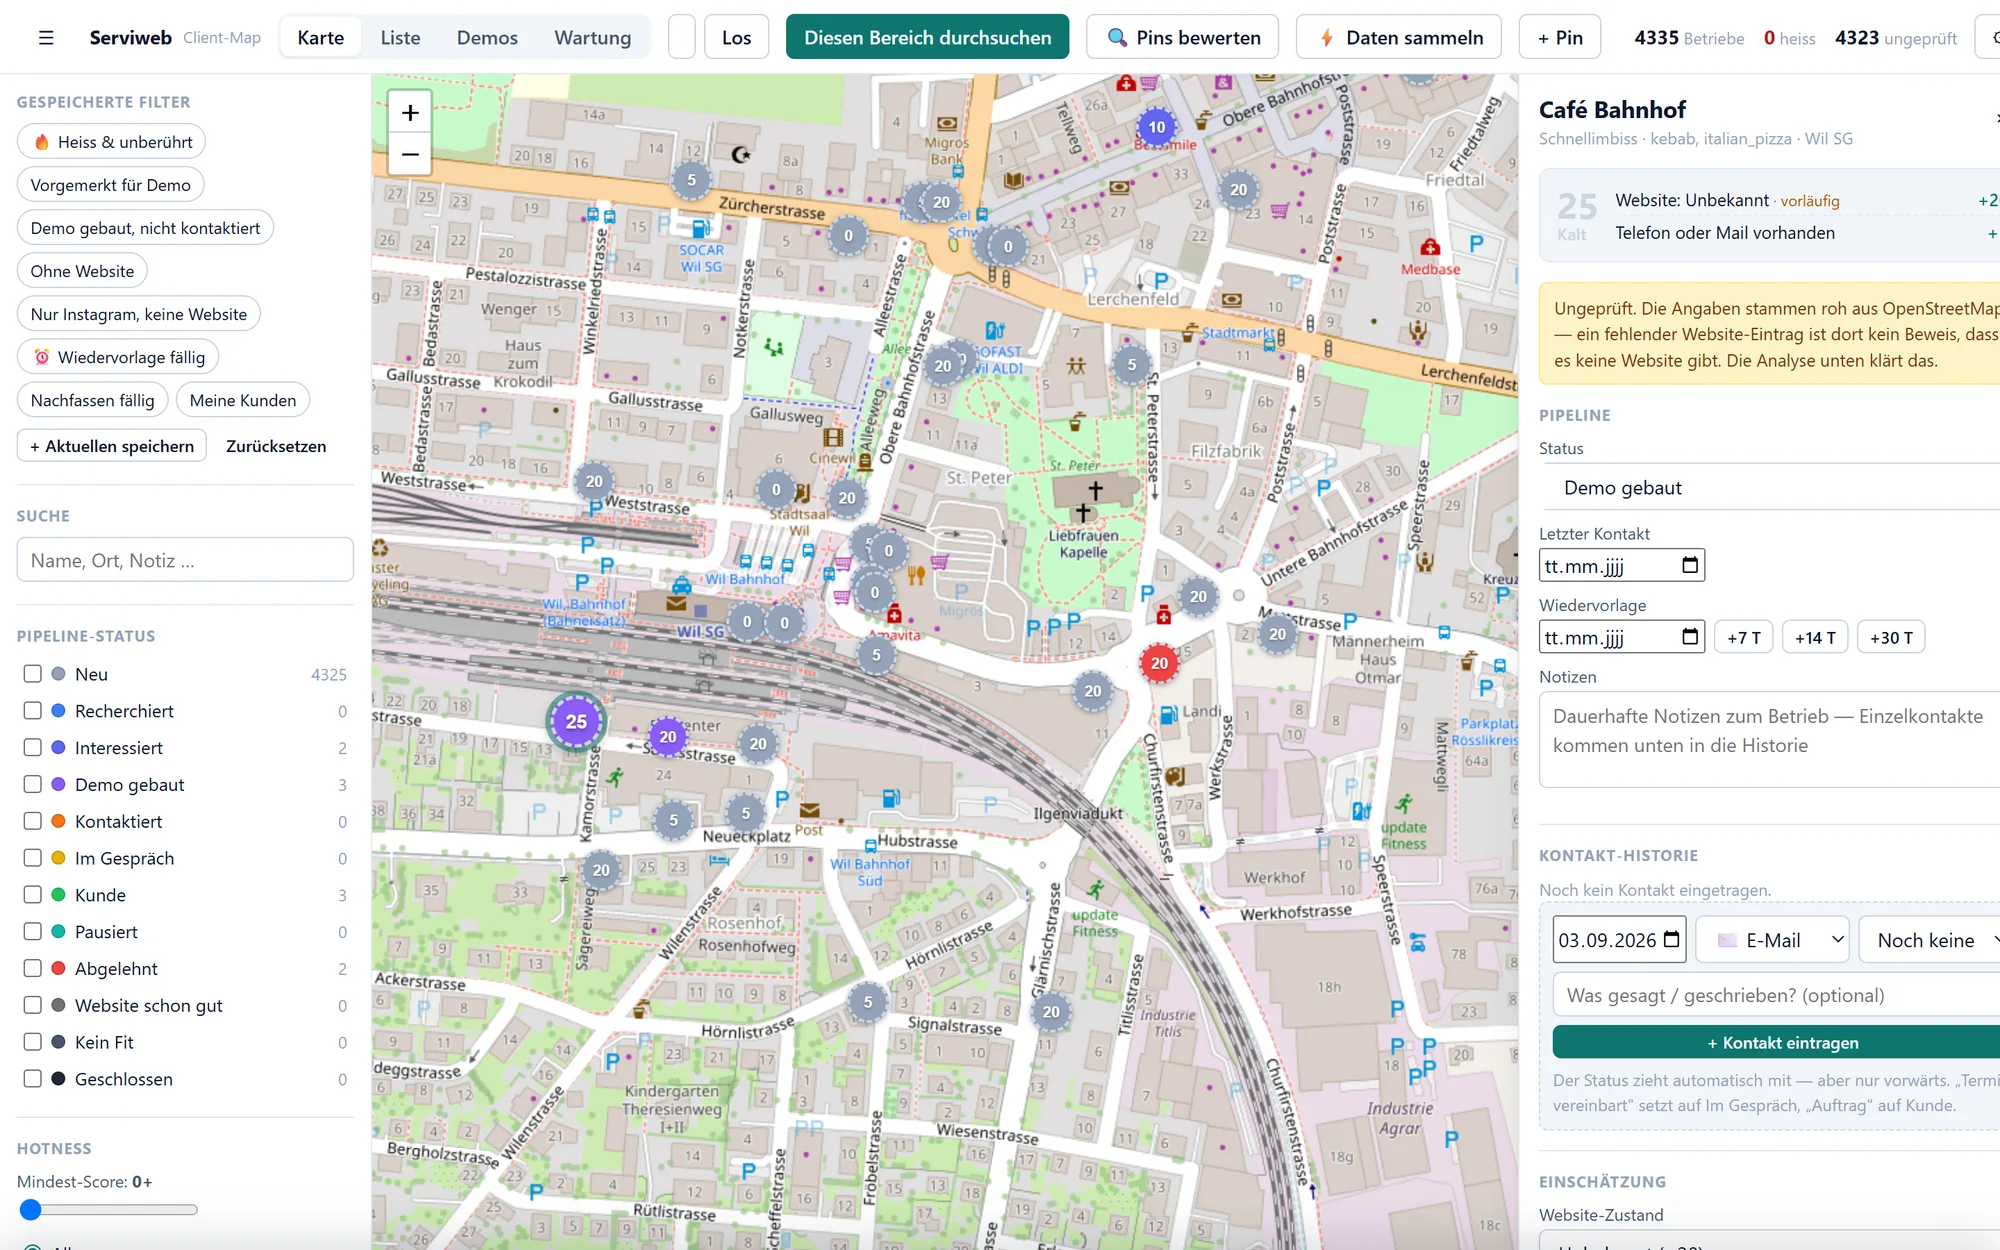
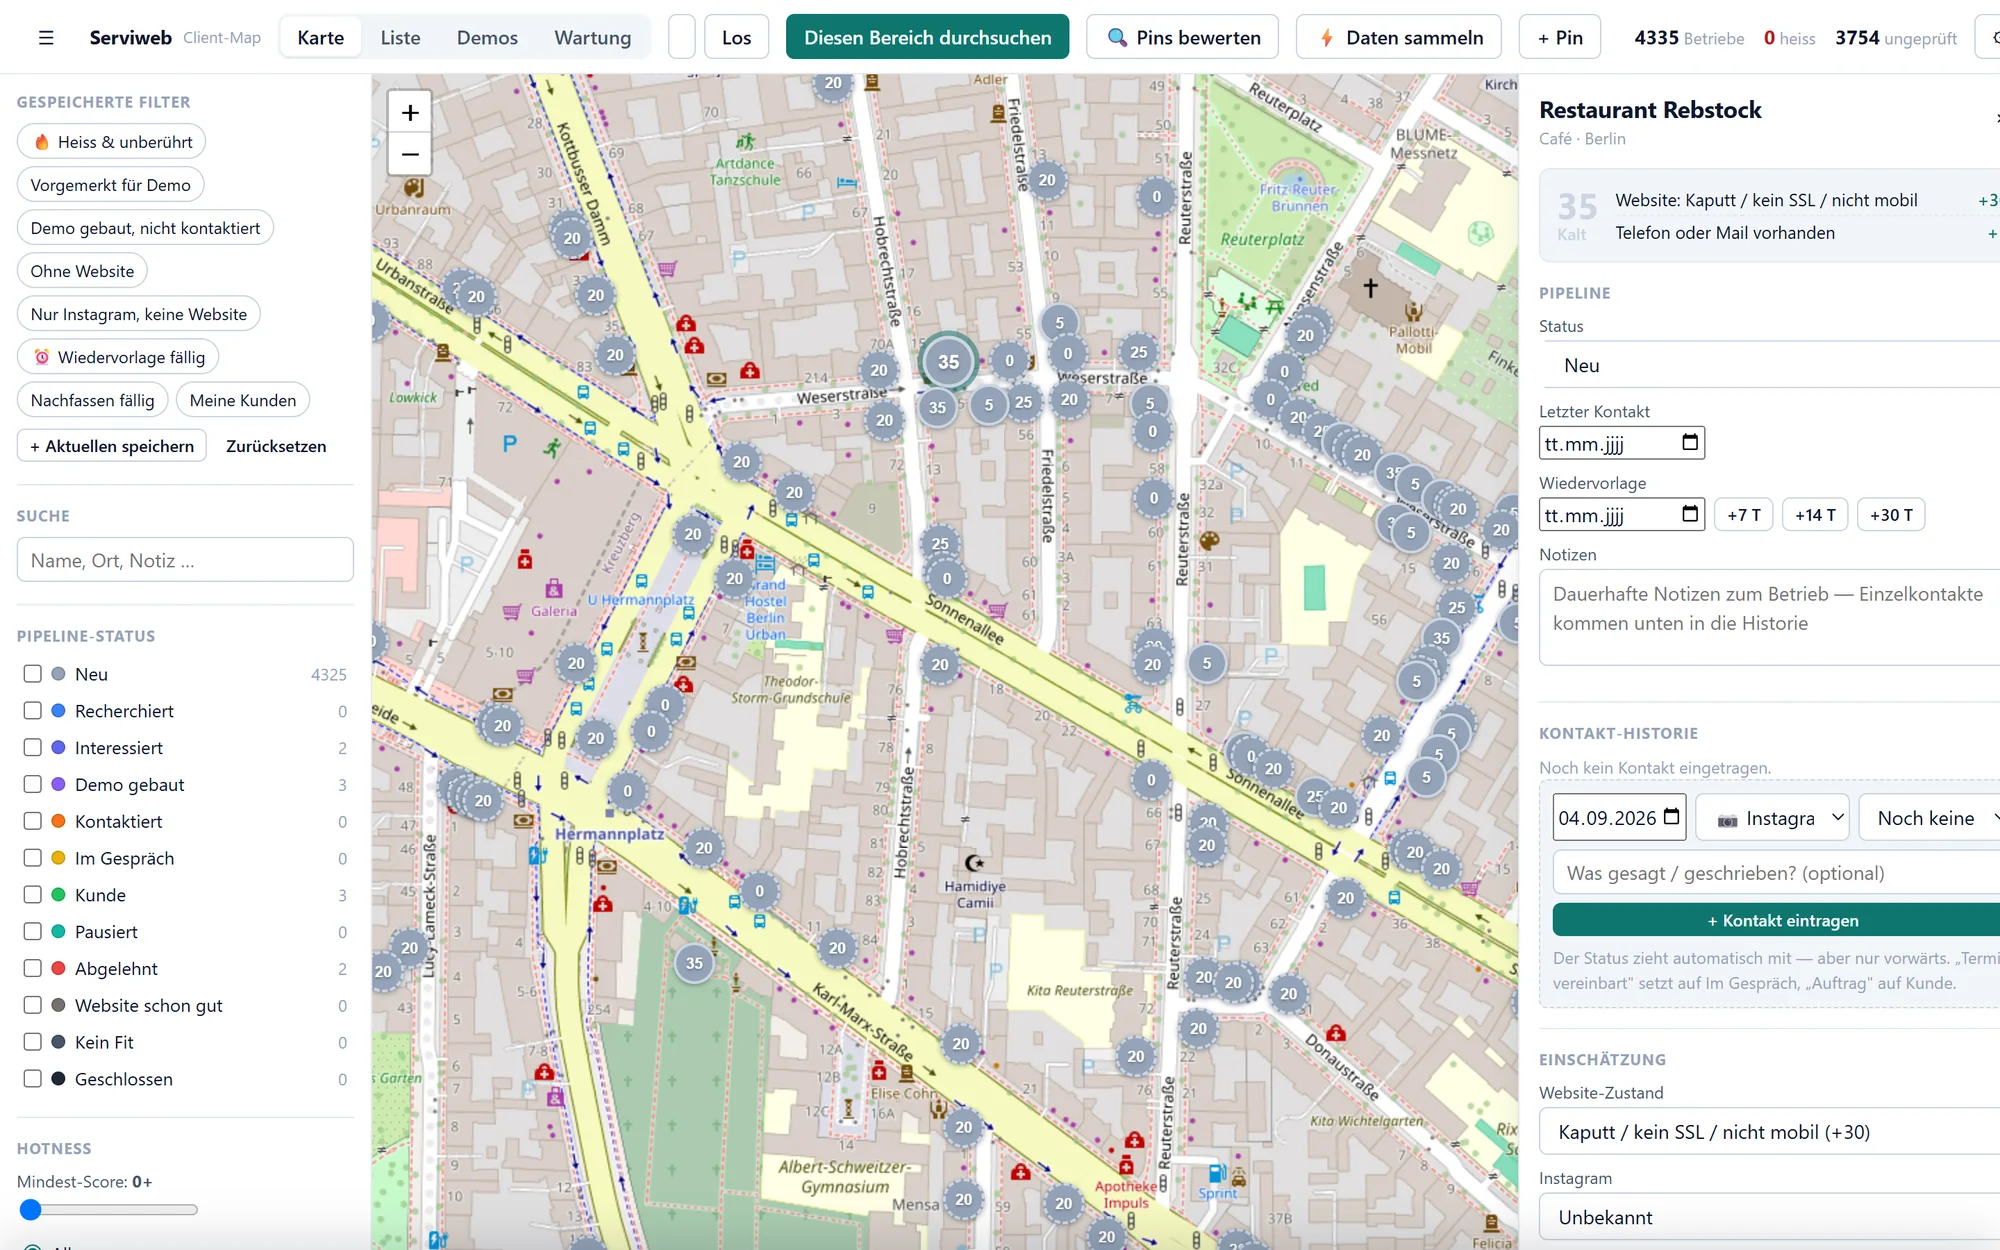
Landing: Karten zeigen Berlin statt Wil
Die drei Kartenbilder neu aufgenommen ueber Berlin: Stadtansicht mit
Clustern von Neukoelln bis Lichtenberg und Strassenebene am Hermannplatz.
Beide aus dem laufenden Werkzeug, Betriebsnamen und Nummern wie bisher
ersetzt. Beschriftungen, Alternativtexte und Fliesstext entsprechend
umgestellt.

Die Liste bleibt, wie sie war: die Berliner Datensaetze stehen alle auf
"neu", der Trichter mit zwei Kunden und drei Demos stammt aus den Wiler
Datensaetzen. Ein auf Berlin gefilterter Trichter waere leer, deshalb
nennt keine Bildunterschrift der Liste eine Stadt.

Die Ortsangabe im Fuss und in den Fragen ist entfallen statt auf Berlin
geaendert zu werden: Serviweb sitzt in Wil, und "Gebaut in Berlin" waere
schlicht falsch.

diff --git a/landing/index.html b/landing/index.html
@@ -329,8 +329,8 @@ footer a { color: var(--ink-2); }
 
       <div class="hero-right">
         <div class="block">
-          <div class="block-head"><span class="lbl" data-i18n="heroBlockA">Karte, Wil SG</span><span class="lbl blue" data-i18n="heroBlockB">4&nbsp;335 Betriebe</span></div>
-          <div class="block-body"><img src="screenshots/karte-region.webp" width="2000" height="1250" alt="Kartenansicht der Region Wil mit Pin-Gruppen und gespeicherten Filtern" fetchpriority="high"></div>
+          <div class="block-head"><span class="lbl" data-i18n="heroBlockA">Karte, Berlin</span><span class="lbl blue" data-i18n="heroBlockB">2&nbsp;617 erfasst</span></div>
+          <div class="block-body"><img src="screenshots/karte-region.webp" width="2000" height="1250" alt="Kartenansicht von Berlin mit Pin-Gruppen und gespeicherten Filtern" fetchpriority="high"></div>
           <a class="block-foot" href="#ablauf"><span data-i18n="heroBlockFoot">So funktioniert es</span><span class="plus">+</span></a>
         </div>
         <div class="legend">
@@ -376,8 +376,8 @@ footer a { color: var(--ink-2); }
             </ul>
           </div>
           <figure class="block" style="margin:0">
-            <div class="block-head"><span class="lbl" data-i18n="cap1">Karte, Region Wil</span><span class="lbl blue" data-i18n="cap1b">Zoomstufe Region</span></div>
-            <div class="block-body"><img src="screenshots/karte-region.webp" width="2000" height="1250" alt="Kartenansicht: Region Wil mit Pin-Gruppen und Filterleiste" loading="lazy"></div>
+            <div class="block-head"><span class="lbl" data-i18n="cap1">Karte, Berlin</span><span class="lbl blue" data-i18n="cap1b">Neukölln bis Lichtenberg</span></div>
+            <div class="block-body"><img src="screenshots/karte-region.webp" width="2000" height="1250" alt="Kartenansicht: Berlin von Neukölln bis Lichtenberg mit Pin-Gruppen" loading="lazy"></div>
           </figure>
         </div>
 
@@ -410,8 +410,8 @@ footer a { color: var(--ink-2); }
             </ul>
           </div>
           <figure class="block" style="margin:0">
-            <div class="block-head"><span class="lbl" data-i18n="cap3">Karte, Altstadt</span><span class="lbl blue" data-i18n="cap3b">Demo gebaut</span></div>
-            <div class="block-body"><img src="screenshots/karte-detail.webp" width="2000" height="1250" alt="Altstadt Wil auf Strassenebene mit einzelnen Pins; rechts ein geöffneter Betrieb im Status Demo gebaut" loading="lazy"></div>
+            <div class="block-head"><span class="lbl" data-i18n="cap3">Karte, Neukölln</span><span class="lbl blue" data-i18n="cap3b">Einzelne Pins ab Zoom 17</span></div>
+            <div class="block-body"><img src="screenshots/karte-detail.webp" width="2000" height="1250" alt="Berlin-Neukölln auf Strassenebene mit einzelnen Pins; rechts ein geöffneter Betrieb mit 35 Punkten" loading="lazy"></div>
           </figure>
         </div>
 
@@ -427,7 +427,7 @@ footer a { color: var(--ink-2); }
             </ul>
           </div>
           <figure class="block" style="margin:0">
-            <div class="block-head"><span class="lbl" data-i18n="cap4">Liste, Trichter</span><span class="lbl blue" data-i18n="cap4b">38 Betriebe, 2 Kunden</span></div>
+            <div class="block-head"><span class="lbl" data-i18n="cap4">Liste, Trichter</span><span class="lbl blue" data-i18n="cap4b">2 Kunden, 3 Demos</span></div>
             <div class="block-body"><img src="screenshots/liste.webp" width="2000" height="1250" alt="Listenansicht mit dem Trichter: 36 neu, 4 recherchiert, 4 interessiert, 3 Demo gebaut, 2 kontaktiert, 2 im Gespräch, 2 Kunde" loading="lazy"></div>
           </figure>
         </div>
@@ -521,7 +521,7 @@ footer a { color: var(--ink-2); }
       </div>
       <div class="faq">
         <details><summary data-i18n="faq1Q">Woher kommen die Daten?</summary><div class="faq-body" data-i18n="faq1A">Aus OpenStreetMap, optional angereichert über Google Places. Bewertet wird die Website des Betriebs selbst, keine Bewertungsportale, keine Profile Dritter.</div></details>
-        <details><summary data-i18n="faq2Q">Gibt es das schon, oder ist das eine Idee?</summary><div class="faq-body" data-i18n="faq2A">Es läuft. Ich benutze es täglich für meine eigene Akquise im Raum Wil; die Bilder oben stammen aus dem laufenden Werkzeug. Was fehlt, ist alles, was mehr als einen Nutzer braucht: Konten, Abrechnung, geteilte Daten. Das baue ich erst, wenn klar ist, dass es ausser mir jemand will.</div></details>
+        <details><summary data-i18n="faq2Q">Gibt es das schon, oder ist das eine Idee?</summary><div class="faq-body" data-i18n="faq2A">Es läuft. Ich benutze es täglich für meine eigene Akquise; die Bilder oben stammen aus dem laufenden Werkzeug und zeigen 2&nbsp;617 erfasste Betriebe in Berlin. Was fehlt, ist alles, was mehr als einen Nutzer braucht: Konten, Abrechnung, geteilte Daten. Das baue ich erst, wenn klar ist, dass es ausser mir jemand will.</div></details>
         <details><summary data-i18n="faq3Q">Sind die Betriebe auf den Bildern echt?</summary><div class="faq-body" data-i18n="faq3A">Die Karte, die Zahlen und die Bewertungen sind echt. Namen, Telefonnummern und Adressen der Betriebe sind ersetzt; niemand soll auf dieser Seite lesen, dass seine Website kaputt ist.</div></details>
         <details><summary data-i18n="faq4Q">Warum nur Gastro?</summary><div class="faq-body" data-i18n="faq4A">Weil ich dort verkaufe und die Kategorien kenne. Coiffeur, Handwerk und Fitness sind derselbe Ablauf mit anderen Filtern. Sag mir, welche Branche du brauchst.</div></details>
         <details><summary data-i18n="faq5Q">Wann kann ich es benutzen?</summary><div class="faq-body" data-i18n="faq5A">Wenn genug Leute sagen, dass sie es brauchen. Ich baue kein Mehrbenutzer-Produkt auf Verdacht. Trag dich ein, und du hörst als Erstes davon.</div></details>
@@ -545,7 +545,7 @@ footer a { color: var(--ink-2); }
 
 <footer>
   <div class="frame">
-    <p data-i18n="footer">Gebaut in Wil SG von Kevin, der damit selbst Restaurants anschreibt. Client-Map ist heute ein Werkzeug für eine Person. Diese Seite prüft, ob daraus ein Produkt wird.</p>
+    <p data-i18n="footer">Gebaut von Kevin, der damit selbst Restaurants anschreibt. Client-Map ist heute ein Werkzeug für eine Person. Diese Seite prüft, ob daraus ein Produkt wird.</p>
     <p><a href="https://serviweb.ch" translate="no">Serviweb</a>, 2026</p>
   </div>
 </footer>
@@ -647,7 +647,7 @@ footer a { color: var(--ink-2); }
       heroSub: "Client-Map finds the restaurants and cafés in your area, checks their website and tells you why it needs a new one. Then it builds a demo site to show the owner and reminds you to follow up.",
       ctaWaitlist: "Join the waitlist", ctaEarly: "Early access, 19 € a month",
       heroNote: "For web freelancers in Switzerland, Germany and Austria. Runs for one person today; this page decides whether it becomes a product.",
-      heroBlockA: "Map, Wil SG", heroBlockB: "4,335 businesses", heroBlockFoot: "How it works",
+      heroBlockA: "Map, Berlin", heroBlockB: "2,617 on file", heroBlockFoot: "How it works",
       legA: "Colour", legAb: "= how far you have got with the place",
       legB: "Ring", legBb: "= how good the lead is",
       legC: "Dashed", legCb: "= unverified, still a guess",
@@ -666,7 +666,7 @@ footer a { color: var(--ink-2); }
       step1T: "Draw an area. Get every business in it.",
       step1B: "Client-Map pulls every hospitality business from the area, from OpenStreetMap, enriched via Google Places if you want. Large areas are split into tiles so nothing gets lost.",
       step1a: "Clustered pins show where density pays off", step1b: "Saved filters: no website, Instagram only, hot and untouched", step1c: "A rescan never overwrites your work",
-      cap1: "Map, Wil region", cap1b: "Region zoom",
+      cap1: "Map, Berlin", cap1b: "Neukölln to Lichtenberg",
       step2T: "The score says who needs a website, and who only looks like it.",
       step2B: "An agent looks at the business's website and Instagram and assigns points: no website +40, broken or not mobile +30, outdated +20, Instagram active but no site +25. Unverified stays visibly unverified, with a dashed ring instead of guesswork.",
       step2a: "Free web check, quick check in 30 seconds, deep analysis as Markdown", step2b: "The reasoning sits next to the number, not hidden behind it", step2c: "Score whole areas at once",
@@ -674,11 +674,11 @@ footer a { color: var(--ink-2); }
       step3T: "A demo site for that exact place. That is the argument.",
       step3B: "One button in the business starts building a real, presentable website from the analysis: menu, hours, images, the tone of the house. Plus an outreach draft for WhatsApp, Instagram or email that names the owner and refers to his own site.",
       step3a: "The app never sends anything. You read, edit, send yourself", step3b: "Demo folders are suggested to businesses, never auto-assigned", step3c: "The build runs in its own folder, no access to client projects",
-      cap3: "Map, old town", cap3b: "Demo built",
+      cap3: "Map, Neukölln", cap3b: "Single pins from zoom 17",
       step4T: "The funnel shows where it is stuck.",
       step4B: "Every contact gets logged: channel, outcome, what was said. Status moves along automatically, but only forwards; a customer never becomes a contact again. The follow-up date lives on the business, one click for +7, +14, +30 days.",
       step4a: "The funnel counts cumulatively: this many reached at least this stage", step4b: "Due follow-ups as a saved filter", step4c: "The CSV export contains exactly what is on screen",
-      cap4: "List, funnel", cap4b: "38 businesses, 2 customers",
+      cap4: "List, funnel", cap4b: "2 customers, 3 demos",
       anatTitle: "Everything about one place on one page.",
       anatLead: "The detail panel is where you work. What it holds is deliberately separated: bookkeeping on top, facts below, actions at the bottom. The numbers on the pictures belong to the list beside them.",
       cap5: "Panel, top", cap6: "Panel, bottom",
@@ -701,13 +701,13 @@ footer a { color: var(--ink-2); }
       earlyCta: "Lock the price",
       faqTitle: "What you are probably wondering.",
       faq1Q: "Where does the data come from?", faq1A: "OpenStreetMap, optionally enriched via Google Places. What gets scored is the business's own website, no review portals, no third-party profiles.",
-      faq2Q: "Does this exist, or is it an idea?", faq2A: "It runs. I use it daily for my own prospecting around Wil, Switzerland; the pictures above come from the running tool. What is missing is everything that needs more than one user: accounts, billing, shared data. I build that only once it is clear somebody besides me wants it.",
+      faq2Q: "Does this exist, or is it an idea?", faq2A: "It runs. I use it daily for my own prospecting; the pictures above come from the running tool and show 2,617 businesses on file in Berlin. What is missing is everything that needs more than one user: accounts, billing, shared data. I build that only once it is clear somebody besides me wants it.",
       faq3Q: "Are the businesses in the pictures real?", faq3A: "The map, the numbers and the scores are real. Names, phone numbers and addresses are replaced; nobody should read on this page that their website is broken.",
       faq4Q: "Why only hospitality?", faq4A: "Because that is what I sell to and the categories I know. Hairdressers, trades and gyms are the same flow with different filters. Tell me which one you need.",
       faq5Q: "When can I use it?", faq5A: "When enough people say they need it. I am not building a multi-user product on a hunch. Sign up and you hear first.",
       closeT: "Tell me whether to build this.",
       closeB: "The waitlist costs nothing and commits you to nothing. If you actually want it, lock the price. That is the answer I listen to.",
-      footer: "Built in Wil, Switzerland by Kevin, who uses it to message restaurants himself. Client-Map is a tool for one person today. This page decides whether it becomes a product."
+      footer: "Built by Kevin, who uses it to message restaurants himself. Client-Map is a tool for one person today. This page decides whether it becomes a product."
     }
   };
 

diff --git a/PRODUCT.md b/PRODUCT.md
@@ -98,13 +98,16 @@ previous page's look is not a constraint.
 
 ## Evidence on Hand
 
-- Six anonymised screenshots of the running app at 2×, WebP, in
-  `landing/screenshots/`: region map with clusters (`karte-region`, plus a
-  cropped `hero` variant), old-town map with an open business (`karte-detail`),
-  list with funnel (`liste`), list with a 45-point business open
-  (`liste-detail`), detail panel top and bottom (`detail-kopf`,
-  `detail-aktionen`). Real numbers visible in them: 4 335 businesses on file,
-  38 in Wil SG, funnel 36 → 4 → 4 → 3 → 2 → 2 → 2, 2 customers.
+- Anonymised screenshots of the running app at 2×, WebP, in
+  `landing/screenshots/`: Berlin at city zoom with clusters (`karte-region`,
+  plus a cropped `hero` variant), Berlin-Neukölln at street level with an open
+  business (`karte-detail`), list with funnel (`liste`), list with a 45-point
+  business open (`liste-detail`), detail panel top and bottom (`detail-kopf`,
+  `detail-aktionen`). Real numbers in them: 4 335 businesses on file of which
+  2 617 are in Berlin, funnel 36 → 4 → 4 → 3 → 2 → 2 → 2, 2 customers,
+  3 demos built. The Berlin records are all status `neu`; the pipeline
+  progress in the list screenshots comes from the Wil SG records, so a
+  Berlin-filtered funnel would be empty and must not be captioned as Berlin.
 - Market research in the validation plan (competitor table, gaps): Webleadr sells
   100 credits for $12, i.e. a list of businesses without a website at roughly
   twelve dollars per hundred; Huntly, No-Site Search, Crective, FindLeadly,
